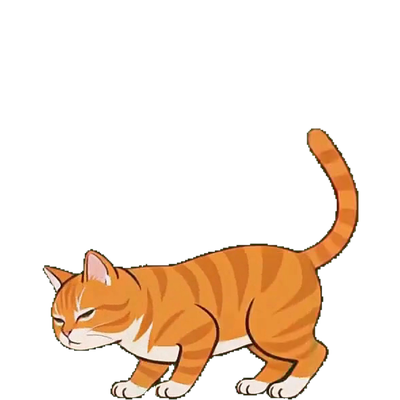
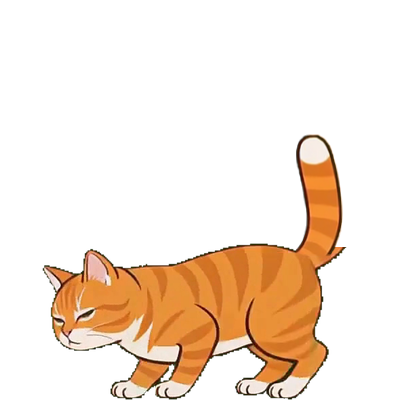
fix(pet): give the three remaining frames the white-tipped tail
stretch/03 and the two jump frames came from the 6.58 s action source,
which draws the tail as a long thin whip with no white tip. That left
three of the shipped frames off the majority tail standard.

stretch/03 reuses the tail from _refs/stand-tail-neutral.png, aligned
to the frame by a silhouette affine. The jump frames are single-image
edits seeded from the original frames, aligned back by ECC (landing) or
ORB (airborne, whose hind legs differ too much for ECC). Only the tail
and a small junction band change; pose, scale, canvas and the old body
stay identical, and the old thin tail is removed.

No code, catalog or state changes; verify.ps1 passes.

Changed region(s): [[0.72, 0.3, 0.9, 0.66]]

diff --git a/docs/pet-art-spec.md b/docs/pet-art-spec.md
@@ -71,7 +71,7 @@
 - 70–84%：`jump/landing.png`（源视频 5.6 s）
 - 84–100%：站姿
 
-`airborne`/`landing` 为 400×400 RGBA，按站姿缩放并贴地对齐；线宽略细、眼部更圆，属于已知的视频抽帧差异。帧加载失败时回退站姿，不中断小跳。
+`airborne`/`landing` 为 400×400 RGBA，按站姿缩放并贴地对齐；尾巴已按多数派「粗短 + 白尖」修正（#163），线宽略细、眼部更圆仍是这些抽帧的已知差异。帧加载失败时回退站姿，不中断小跳。
 
 ## 画布与对齐
 
